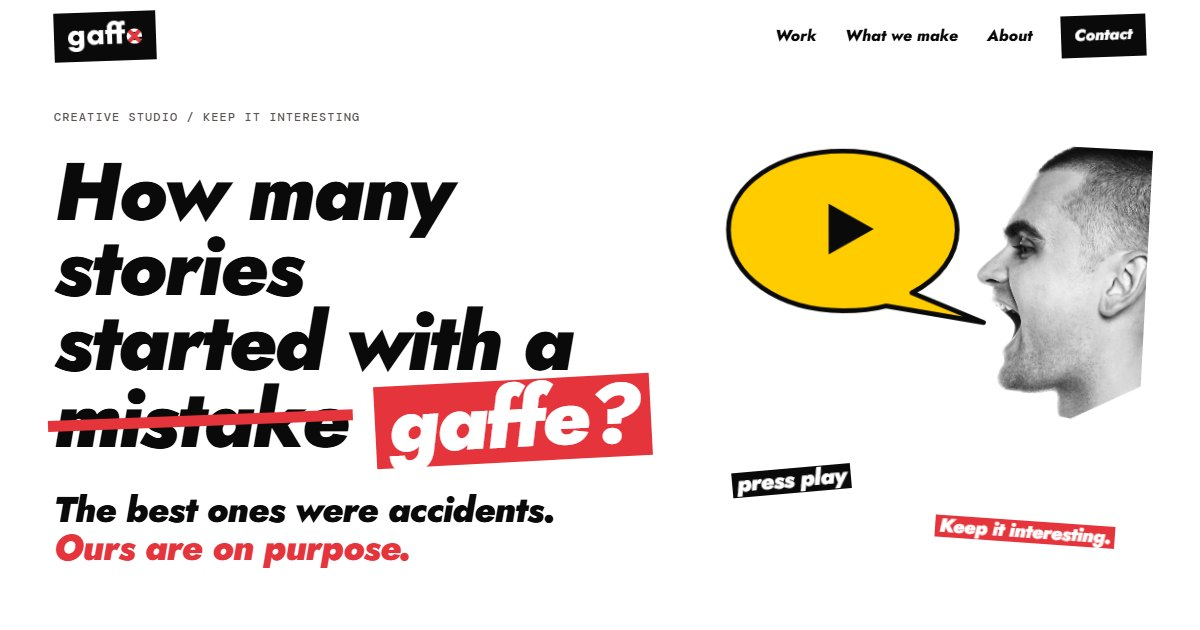
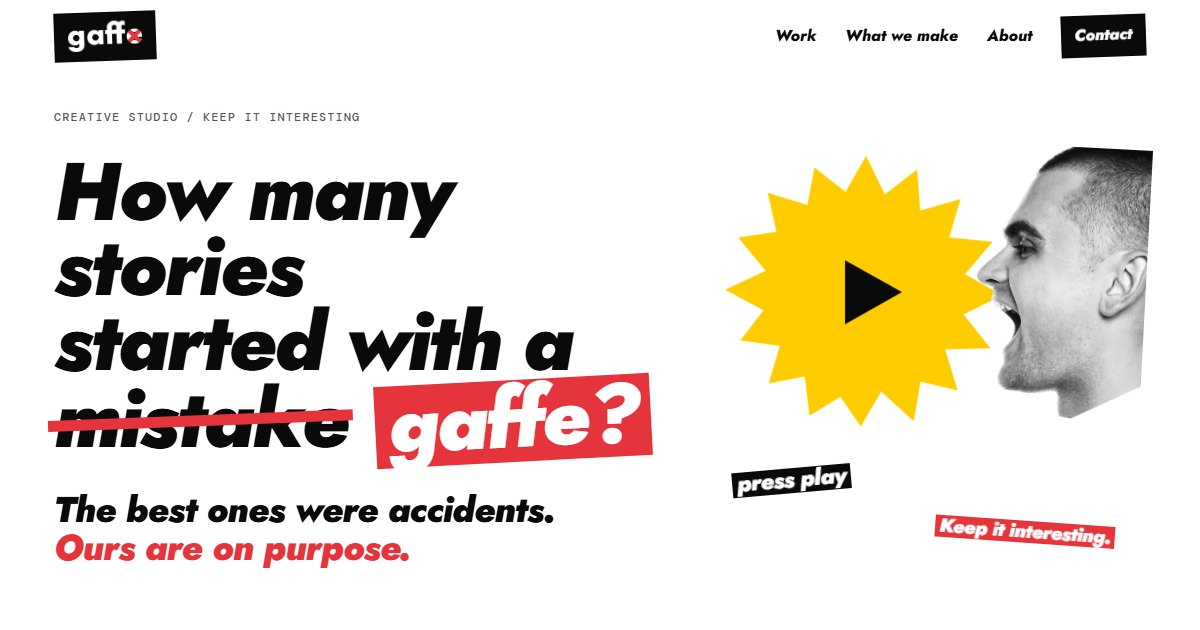
Volta ao play em estrela da v8 no hero
O balão de fala sai; o botão é outra vez a estrela amarela a rodar com o triângulo, como na v8.
A imagem de partilha foi gerada de novo com o botão novo.

Changed region(s): [[0.5858, 0.2111, 0.8325, 0.6937]]

diff --git a/css/style.css b/css/style.css
@@ -350,7 +350,7 @@ ul,ol,dl,dd{margin:0;padding:0;list-style:none}
   .cl__txt,.cl__txt i,.cl__arr{transition:none}
 }
 
-/* ============ v9: speech-bubble play, animated nav, case previews, contact form ============ */
+/* ============ v9: animated nav, case previews, contact form ============ */
 .skip{position:absolute;left:-999px;top:12px;z-index:100;background:var(--ink);color:var(--paper);padding:.6em 1em;font-weight:700}
 .skip:focus{left:12px}
 
@@ -377,16 +377,12 @@ ul,ol,dl,dd{margin:0;padding:0;list-style:none}
 .burger[aria-expanded="true"] .burger__lines::before{transform:rotate(45deg)}
 .burger[aria-expanded="true"] .burger__lines::after{transform:rotate(-45deg)}
 
-/* ---------- hero: the play button is his speech bubble ---------- */
-.bubble{display:block;background:none;border:0;padding:0;cursor:pointer;color:inherit;z-index:2}
-.bubble__in{display:block;position:relative;transform-origin:96% 86%;animation:talk 2.6s ease-in-out infinite}
-@keyframes talk{0%,100%{transform:rotate(0) scale(1)}40%{transform:rotate(-2deg) scale(1.035)}60%{transform:rotate(1deg) scale(.99)}}
-.bubble__shape{width:100%;height:auto;overflow:visible;fill:var(--yellow);stroke:var(--ink);stroke-width:4;stroke-linejoin:round;transition:fill .2s}
-.bubble__tri{position:absolute;left:45.5%;top:42%;width:21%;aspect-ratio:1;background:var(--ink);clip-path:polygon(16% 4%,98% 50%,16% 96%);transform:translate(-42%,-50%);transition:transform .3s cubic-bezier(.3,1.6,.5,1),background .2s}
-.bubble:hover .bubble__shape,.bubble:focus-visible .bubble__shape{fill:var(--red)}
-.bubble:hover .bubble__tri,.bubble:focus-visible .bubble__tri{transform:translate(-42%,-50%) scale(1.25);background:var(--paper)}
-.bubble:focus-visible{outline:none}
-.bubble:focus-visible .bubble__shape{stroke:var(--blue)}
+/* ---------- hero: the play button, a spinning star ---------- */
+.play{display:block;background:none;border:0;padding:0;cursor:pointer;color:inherit;border-radius:50%}
+.play .shape{display:block}
+.play__tri{position:absolute;left:50%;top:50%;width:25%;aspect-ratio:1;background:var(--ink);clip-path:polygon(16% 4%,98% 50%,16% 96%);transform:translate(-42%,-50%);transition:transform .3s cubic-bezier(.3,1.6,.5,1),background .2s}
+.play:hover .play__tri,.play:focus-visible .play__tri{transform:translate(-42%,-50%) scale(1.22);background:var(--red)}
+.play:hover .shape{animation-duration:9s}
 
 /* ---------- the walkers follow the red line ---------- */
 #idea{scroll-margin-top:var(--top)}
@@ -462,8 +458,8 @@ a.reach__line:hover{background:var(--red)}
   .form__row{grid-template-columns:minmax(0,1fr)}
 }
 @media (prefers-reduced-motion:reduce){
-  .top__logo,.nav a,.burger,.bubble__in,.fab__dot{animation:none}
-  .bubble__tri,.cl__pv,.fab,.nav,.nav a{transition:none}
+  .top__logo,.nav a,.burger,.fab__dot{animation:none}
+  .play__tri,.cl__pv,.fab,.nav,.nav a{transition:none}
 }
 
 /* ---------- about: cut-outs popping out of a spinning star ---------- */

diff --git a/index.html b/index.html
@@ -70,14 +70,11 @@
         <p class="hero__lede">The best ones were accidents.<br><span class="red">Ours are on purpose.</span></p>
       </div>
       <div class="cg hero__cg" data-mouse>
-        <div class="pc" style="--x:46%;--y:6%;--w:54%;--r:3deg" data-speed=".04" data-depth="10" aria-hidden="true"><img class="snip" style="--clip:polygon(0 0,100% 0,100% 86%,70% 99%,0 90%)" src="img/hero-guy.webp" width="900" height="1082" alt=""></div>
-        <!-- the speech bubble comes out of his mouth: the tail's tip lands near (62%, 47%) of the collage -->
-        <button type="button" class="pc bubble" id="play" style="--x:0%;--y:6%;--w:62%" data-depth="-8" aria-label="Play the gaffe story">
-          <span class="bubble__in">
-            <svg class="bubble__shape" viewBox="0 0 220 170" aria-hidden="true"><path d="M100 6C153 6 196 35 196 72c0 22-15 41-38 53l60 25-82-14c-11 3-23 4-36 4C47 140 4 111 4 72S47 6 100 6z"/></svg>
-            <span class="bubble__tri" aria-hidden="true"></span>
-          </span>
+        <button type="button" class="pc play" id="play" style="--x:0%;--y:8%;--w:66%" data-depth="-8" aria-label="Play the gaffe story">
+          <span class="shape burst spin" style="--c:var(--yellow)"></span>
+          <span class="play__tri" aria-hidden="true"></span>
         </button>
+        <div class="pc" style="--x:46%;--y:6%;--w:54%;--r:3deg" data-speed=".04" data-depth="10" aria-hidden="true"><img class="snip" style="--clip:polygon(0 0,100% 0,100% 86%,70% 99%,0 90%)" src="img/hero-guy.webp" width="900" height="1082" alt=""></div>
         <div class="pc" style="--x:2%;--y:78%;--r:-5deg;font-size:5.4cqw" data-speed=".1" data-depth="18" aria-hidden="true"><b class="strip pop" style="--r:0deg">press play</b></div>
         <div class="pc" style="--x:50%;--y:90%;--r:4deg;font-size:4.6cqw" data-speed=".12" data-depth="14" aria-hidden="true"><b class="strip strip--red">Keep it interesting.</b></div>
       </div>
@@ -126,7 +123,7 @@
 </main>
 
 
-<!-- ================= PAGE: THE GAFFE STORY (opens from the speech bubble) ================= -->
+<!-- ================= PAGE: THE GAFFE STORY (opens from the play button) ================= -->
 <article class="case story" id="story" hidden>
   <!-- ================= THE GAFFE STORY, SIDEWAYS (pinned: scrolling down walks it along) ================= -->
   <section class="side" id="idea" aria-label="The gaffe idea, told sideways">

diff --git a/js/main.js b/js/main.js
@@ -7,7 +7,7 @@
   function each(sel, fn) { Array.prototype.forEach.call(document.querySelectorAll(sel), fn); }
   function clamp(v, a, b) { return Math.min(b, Math.max(a, v)); }
 
-  /* ---------- the side-scroller: its own page, opened from the speech bubble ---------- */
+  /* ---------- the side-scroller: its own page, opened from the play button ---------- */
   var story = cases.story;
   var side = document.getElementById('idea');
   var stick = side.querySelector('.side__sticky');
@@ -89,7 +89,7 @@
     if (sideways) { window.scrollBy({ top: (tx - x) / RATIO * 1.6, behavior: 'instant' }); tx = x; ty = y; }
   }, { passive: true });
 
-  /* ---------- play: the speech bubble walks the story on its own, any input takes over ---------- */
+  /* ---------- play: the button walks the story on its own, any input takes over ---------- */
   var playing = 0;
   var takeover = ['wheel', 'touchstart', 'keydown', 'pointerdown'];
   function stopPlay() {
